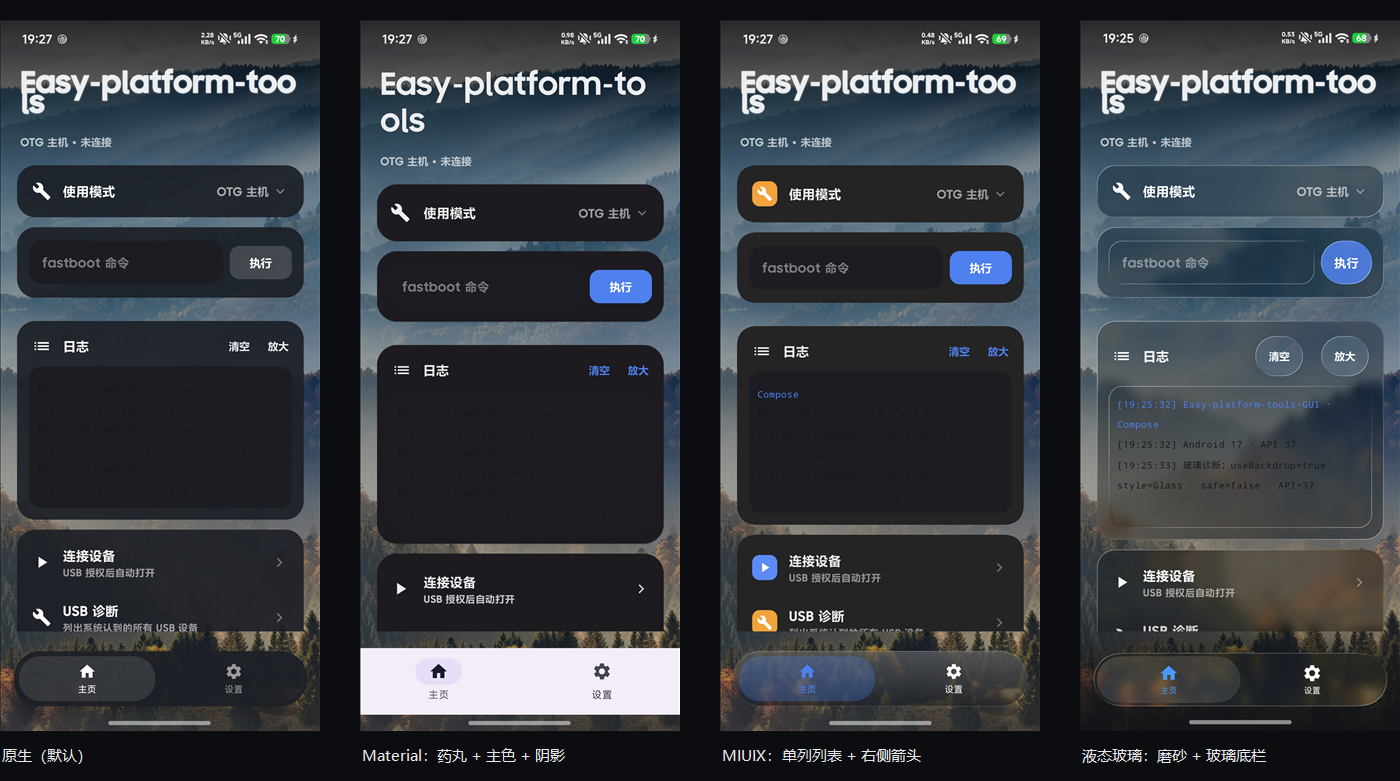
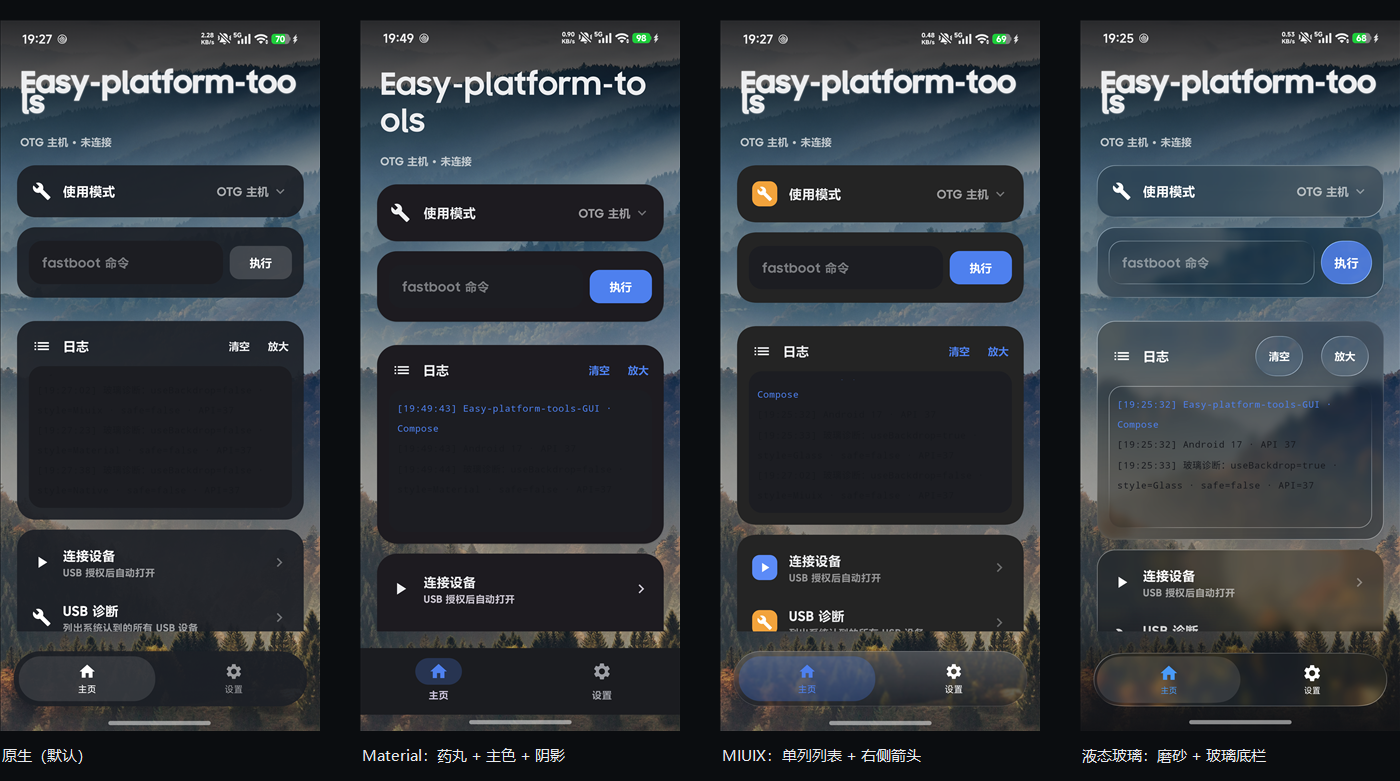
fix(android): Material ??????????????? (3.50.3)
?????????? MaterialTheme ???,???? M3 ????????,
??????????????????????

- ???????? MaterialTheme(?????? dark/light colorScheme)
- surfaceContainer ????????(M3 ?? #211F26 ?????????)
- secondaryContainer / onSecondaryContainer ?????,
  ???????? M3 ??????,????????
- onSurfaceVariant ? Palette.text2,?????????
- containerColor / tonalElevation ?????,??? NavigationBar ????

???? docs/styles.png(??? Material ????????????)?

diff --git a/android-compose/app/src/main/java/com/easypt/gui/MainActivity.kt b/android-compose/app/src/main/java/com/easypt/gui/MainActivity.kt
@@ -1826,6 +1826,7 @@ class MainActivity : ComponentActivity(), FastbootUsb.Logger {
                                     darkColorScheme(
                                         primary = LocalAccent.current,
                                         surface = Surface,
+                                        surfaceContainer = Surface,
                                         onSurface = TextPrimary,
                                         background = Bg,
                                         onBackground = TextPrimary
@@ -1835,6 +1836,7 @@ class MainActivity : ComponentActivity(), FastbootUsb.Logger {
                                         primary = LocalAccent.current,
                                         onPrimary = Color.White,
                                         surface = Surface,
+                                        surfaceContainer = Surface,
                                         onSurface = TextPrimary,
                                         background = Bg,
                                         onBackground = TextPrimary
@@ -1992,25 +1994,61 @@ class MainActivity : ComponentActivity(), FastbootUsb.Logger {
                     // —— 直接照抄 AndroidLiquidGlass demo 的 LiquidBottomTabs ——
                     // Material Design 3：底部导航直接用 M3 的 NavigationBar + NavigationBarItem
                     if (style == UiStyle.Material) {
-                        NavigationBar(
-                            modifier = Modifier
-                                .align(Alignment.BottomCenter)
-                                .navigationBarsPadding(),
-                            containerColor = MaterialTheme.colorScheme.surfaceContainer,
-                            tonalElevation = 3.dp
+                        // 这段在页面的 MaterialTheme 外面，不自己套一层的话拿到的是 M3 默认【浅色】主题
+                        // —— 深色模式下整屏都黑了，只有底栏还是浅紫色的，就是这里的原因。
+                        MaterialTheme(
+                            typography = typographyWith(familyFor(fontChoice)),
+                            colorScheme = if (dark) {
+                                darkColorScheme(
+                                    primary = LocalAccent.current,
+                                    surface = Surface,
+                                    // 底栏底色跟卡片用同一个色，M3 默认的 #211F26 偏紫、比卡片亮一档，
+                                    // 摆在一起像两个东西
+                                    surfaceContainer = Surface,
+                                    // NavigationBarItem 的选中药丸取 secondaryContainer、图标取 onSecondaryContainer，
+                                    // 不覆盖的话是 M3 基线那套紫色，跟本项目的蓝色主色对不上
+                                    secondaryContainer = LocalAccent.current.copy(alpha = 0.24f),
+                                    onSecondaryContainer = LocalAccent.current,
+                                    onSurface = TextPrimary,
+                                    onSurfaceVariant = Palette.text2,
+                                    background = Bg,
+                                    onBackground = TextPrimary
+                                )
+                            } else {
+                                lightColorScheme(
+                                    primary = LocalAccent.current,
+                                    onPrimary = Color.White,
+                                    surface = Surface,
+                                    surfaceContainer = Surface,
+                                    secondaryContainer = LocalAccent.current.copy(alpha = 0.14f),
+                                    onSecondaryContainer = LocalAccent.current,
+                                    onSurface = TextPrimary,
+                                    onSurfaceVariant = Palette.text2,
+                                    background = Bg,
+                                    onBackground = TextPrimary
+                                )
+                            }
                         ) {
-                            NavigationBarItem(
-                                selected = page == 0,
-                                onClick = { page = 0 },
-                                icon = { Icon(Icons.Filled.Home, contentDescription = null) },
-                                label = { Text(t("主页", "Home")) }
-                            )
-                            NavigationBarItem(
-                                selected = page == 1,
-                                onClick = { page = 1 },
-                                icon = { Icon(Icons.Filled.Settings, contentDescription = null) },
-                                label = { Text(t("设置", "Settings")) }
-                            )
+                            // containerColor / tonalElevation 都不写，直接用 NavigationBar 的官方默认
+                            // （surfaceContainer + 0dp），跟其它 M3 组件一致
+                            NavigationBar(
+                                modifier = Modifier
+                                    .align(Alignment.BottomCenter)
+                                    .navigationBarsPadding()
+                            ) {
+                                NavigationBarItem(
+                                    selected = page == 0,
+                                    onClick = { page = 0 },
+                                    icon = { Icon(Icons.Filled.Home, contentDescription = null) },
+                                    label = { Text(t("主页", "Home")) }
+                                )
+                                NavigationBarItem(
+                                    selected = page == 1,
+                                    onClick = { page = 1 },
+                                    icon = { Icon(Icons.Filled.Settings, contentDescription = null) },
+                                    label = { Text(t("设置", "Settings")) }
+                                )
+                            }
                         }
                     } else if (useBackdrop) {
                         // 照抄 demo 的 Progressive blur：底栏上方做一层渐变模糊

diff --git a/RELEASE-NOTES.md b/RELEASE-NOTES.md
@@ -1,3 +1,9 @@
+# Easy-platform-tools-GUI v3.50.3 (Android)
+
+- **Material 风格底栏在深色模式下是浅色的** —— 那段底栏写在页面 `MaterialTheme` 外面，拿到的是 M3 默认浅色主题。现在给它单独套一层，`surfaceContainer` 跟卡片同色，选中药丸和图标跟着主色走
+- 重出 `docs/styles.png`（原来 Material 那一格是修复前的浅色底栏）
+
+---
 # Easy-platform-tools-GUI v3.50.1
 
 - 线刷「开始刷写」、日志放大「清空 / 关闭」、读分区表「关闭」、擦除确认、崩溃日志「关闭」——都换成液态玻璃按钮（非玻璃样式仍用原来的 Material 按钮）
